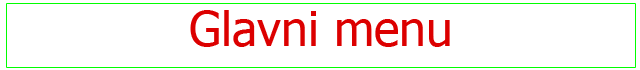
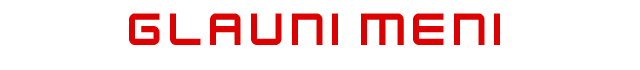
Popravljen ekran pobijede.

Changed region(s): [[0.1875, 0.1429, 0.7812, 0.6857], [0.0, 0.9429, 1.0, 0.9714], [0.0, 0.0286, 1.0, 0.0571]]

diff --git a/Zavrsni/Zavrsni.py b/Zavrsni/Zavrsni.py
@@ -214,7 +214,7 @@ def main ():
                 
             UI.crtajGlavniMenu()
         elif mod == modPobjeda:
-
+            UI.gumbPobjeda(menuGumb)
             if kliknuto:
                 if UI.kliknutoPobjeda(mousex, mousey, menuStisnuto):
                     mod = modMenu
